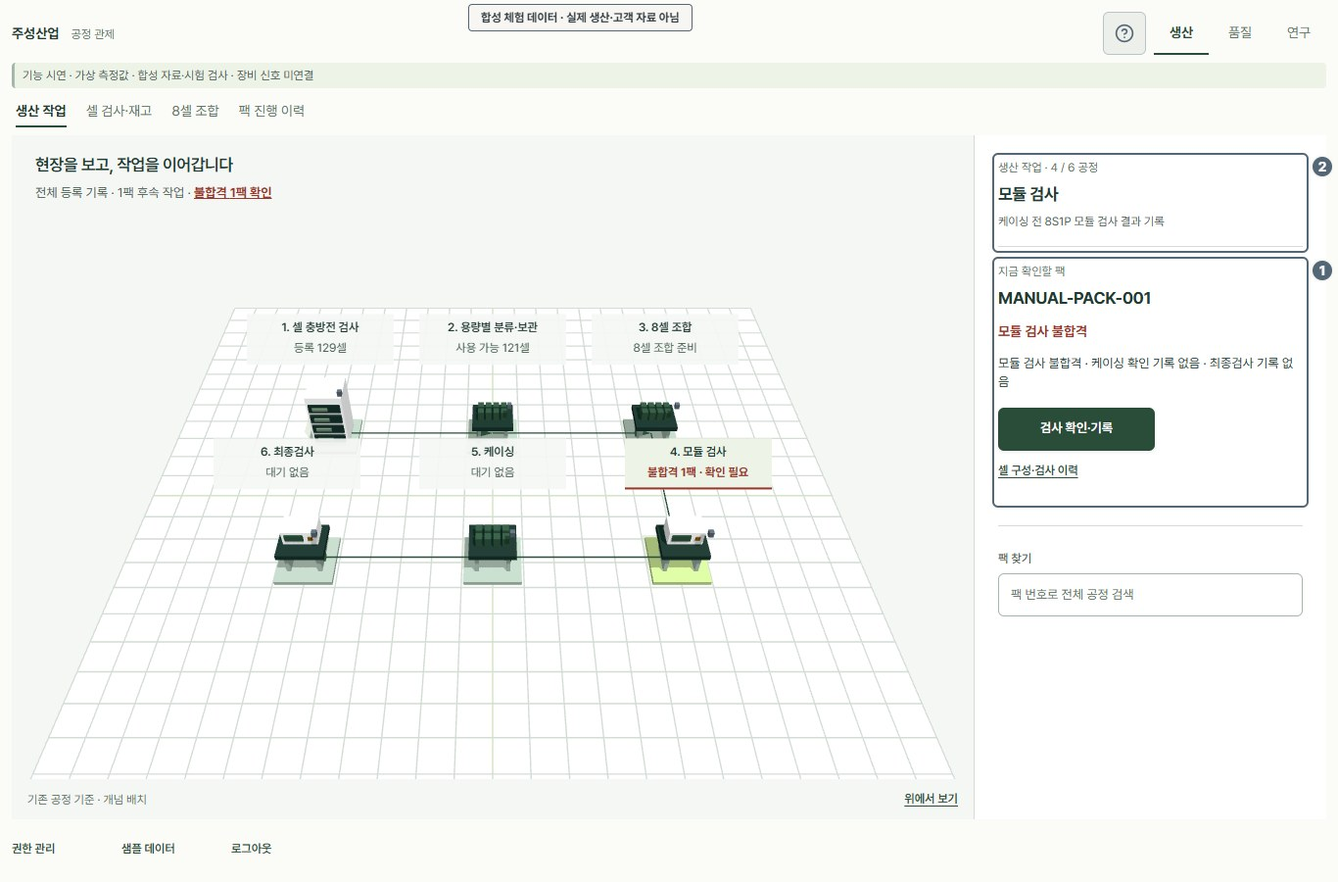
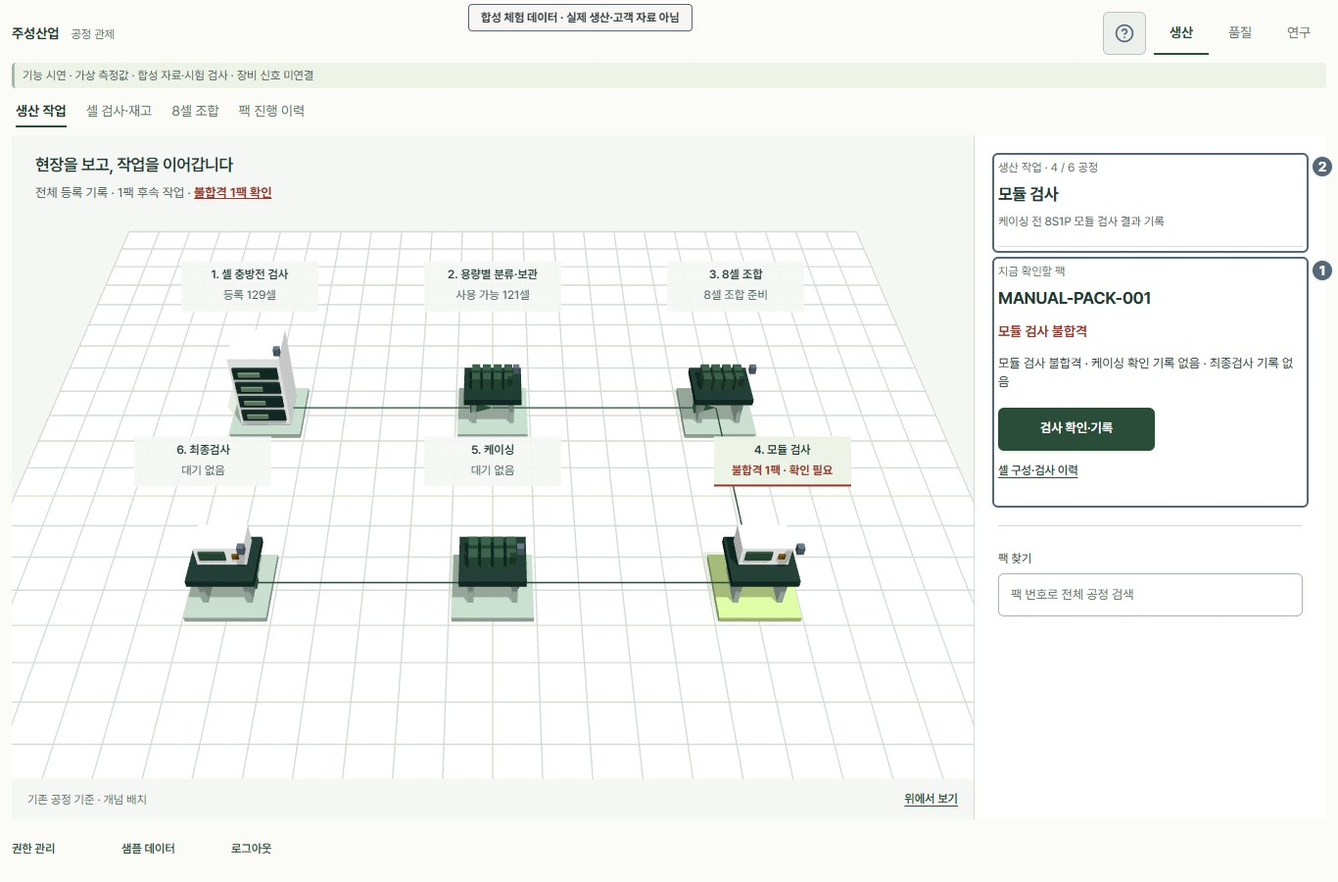
Restore scroll access across short workspaces and process controls

diff --git a/tests/vertical-access.spec.ts b/tests/vertical-access.spec.ts
@@ -1,0 +1,168 @@
+// Regression: never use scrollIntoView here: it also moves overflow:hidden ancestors.
+// Only actual scroll owners may reveal controls; clipping and hit targets are checked afterward.
+import { test, expect } from '@playwright/test';
+import { navigate, step, researchSide } from './workspace';
+import fs from 'node:fs';
+import { choose } from './chips';
+import { prepareInspection } from './inspection';
+for (const [width, height] of [[320, 360], [320, 480], [900, 360], [1366, 600], [1366, 768]])
+    test('vertical access ' + width + 'x' + height, async ({ page }, testInfo) => {
+        test.setTimeout(90000);
+        page.setDefaultTimeout(10000);
+        await page.setViewportSize({ width, height });
+        const findings: any[] = [];
+        async function audit(name: string) { const dismiss = page.getByRole('button', { name: '알림 닫기', exact: true }); if (await dismiss.isVisible())
+            await dismiss.click(); const bad = await page.evaluate(() => { const scope = document.querySelector<HTMLElement>('[aria-modal=true]') || document; const targets = [...scope.querySelectorAll<HTMLElement>('button,input:not([type=radio]):not([type=checkbox]):not([type=file]),select,textarea,summary,a,.choice-chip>span')].filter(e => { const r = e.getBoundingClientRect(), s = getComputedStyle(e); return r.width > 4 && r.height > 4 && s.visibility !== 'hidden' && s.pointerEvents !== 'none' && e.checkVisibility({ checkVisibilityCSS: true }) && !e.closest('.scene-label.quiet'); }); const failed: any[] = []; for (const e of targets) {
+            let p = e.parentElement;
+            while (p) {
+                const s = getComputedStyle(p);
+                if (/^(auto|scroll)$/.test(s.overflowY) && p.scrollHeight > p.clientHeight) {
+                    let r = e.getBoundingClientRect(), q = p.getBoundingClientRect();
+                    if (r.bottom > q.top + p.clientTop + p.clientHeight)
+                        p.scrollTo({ top: p.scrollTop + r.bottom - (q.top + p.clientTop + p.clientHeight) + 2, behavior: 'instant' });
+                    if (r.top < q.top + p.clientTop)
+                        p.scrollTo({ top: p.scrollTop - (q.top + p.clientTop - r.top + 2), behavior: 'instant' });
+                }
+                p = p.parentElement;
+            }
+            const root = document.scrollingElement as HTMLElement;
+            if (root && root.scrollHeight > innerHeight && !/^(hidden|clip)$/.test(getComputedStyle(root).overflowY)) {
+                const r = e.getBoundingClientRect();
+                if (r.bottom > innerHeight)
+                    window.scrollTo({ top: scrollY + r.bottom - innerHeight + 2, behavior: 'instant' });
+                if (r.top < 0)
+                    window.scrollTo({ top: scrollY + r.top - 2, behavior: 'instant' });
+            }
+            const r = e.getBoundingClientRect();
+            let top = Math.max(0, r.top), bottom = Math.min(innerHeight, r.bottom), clip = 'viewport';
+            p = e.parentElement;
+            while (p) {
+                const s = getComputedStyle(p), q = p.getBoundingClientRect();
+                if (/^(auto|scroll|hidden|clip)$/.test(s.overflowY)) {
+                    const b = q.top + p.clientTop + p.clientHeight;
+                    if (b < bottom || q.top + p.clientTop > top)
+                        clip = p.className;
+                    top = Math.max(top, q.top + p.clientTop);
+                    bottom = Math.min(bottom, b);
+                }
+                p = p.parentElement;
+            }
+            const ratio = Math.max(0, bottom - top) / r.height;
+            const x = Math.min(innerWidth - 1, Math.max(1, r.x + r.width / 2)), y = Math.min(innerHeight - 1, Math.max(1, (top + bottom) / 2));
+            const hit = document.elementFromPoint(x, y);
+            const hitOk = hit && (e.contains(hit) || hit.contains(e));
+            if (ratio < .94 || !hitOk)
+                failed.push({ text: (e.textContent || e.getAttribute('aria-label') || e.getAttribute('placeholder') || e.tagName).trim().slice(0, 80), ratio: Math.round(ratio * 100), clip, hit: hit?.className, rect: { y: r.y, h: r.height }, scroll: (() => { const a = []; let q = e.parentElement; while (q) {
+                        a.push({ class: q.className, overflow: getComputedStyle(q).overflowY, sh: q.scrollHeight, ch: q.clientHeight, st: q.scrollTop });
+                        q = q.parentElement;
+                    } return a; })() });
+        } return failed; }); if (bad.length) {
+            findings.push({ screen: name, bad });
+            fs.writeFileSync(testInfo.outputPath('vertical-access.json'), JSON.stringify(findings, null, 2));
+            await page.screenshot({ path: testInfo.outputPath(name.replaceAll(' ', '-') + '.png') });
+        } }
+        await page.goto('/batt/');
+        await audit('login');
+        await page.getByRole('button', { name: '사용 권한 신청', exact: true }).click();
+        await audit('가입');
+        await page.getByRole('button', { name: '가상 데이터로 공정 체험', exact: true }).click();
+        await page.getByRole('button', { name: '예시 셀로 다음 단계' }).click();
+        await page.getByRole('button', { name: '생산 홈', exact: true }).click();
+        for (const mode of ['생산', '품질', '연구']) {
+            await page.getByRole('button', { name: mode, exact: true }).click();
+            await audit(mode + '홈');
+        }
+        for (const task of ['운영 현황', '셀 데이터', '셀 매칭', '팩 · 검사이력', '품질 리포트', '알고리즘 검증', '공정 관리', '품질·공정 승인함', '사용자 관리']) {
+            await navigate(page, task);
+            if (task === '셀 매칭' && (width <= 800 || height <= 450)) {
+                const body = page.locator('.console-task-body');
+                await body.hover();
+                await page.mouse.wheel(0, 1000);
+                await expect.poll(() => body.evaluate(e => e.scrollTop)).toBeGreaterThan(0);
+            }
+            await audit(task);
+            if (task === '셀 매칭') {
+                await page.getByRole('button', { name: '조합 추천', exact: true }).click();
+                await step(page, '8셀 추천 조합');
+                await audit('조합후보');
+                await page.getByRole('button', { name: '조합 검토 · 확정', exact: true }).first().click();
+                await audit('팩구성모달');
+                await page.getByLabel('팩 일련번호').fill('VERTICAL-001');
+                await page.getByLabel('조합 검토 사유', { exact: true }).fill('합성 자료의 세로 접근성 검증');
+                await page.getByRole('button', { name: '확인 및 팩 구성', exact: true }).click();
+            }
+            if (task === '팩 · 검사이력') {
+                await page.getByRole('button', { name: '상세 조회', exact: true }).click();
+                await audit('팩상세');
+                for (const kind of ['module', 'casing', 'final']) {
+                    await prepareInspection(page);
+                    await choose(page, '검사 구분', kind);
+                    await audit('검사판정-' + kind);
+                    await prepareInspection(page, true);
+                    await audit('검사메모-' + kind);
+                    await page.getByRole('button', { name: '검사 결과 저장', exact: true }).click();
+                }
+                await page.getByRole('button', { name: '닫기', exact: true }).click();
+            }
+            if (task === '품질·공정 승인함') {
+                await step(page, '새 검토 요청');
+                await audit('품질요청');
+                await choose(page, '품질 검토 대상 팩', { label: 'VERTICAL-001' });
+                await page.getByLabel('검토 요청 사유', { exact: true }).fill('접근성 검토');
+                await page.getByRole('button', { name: '팩 품질 검토 요청', exact: true }).click();
+                await choose(page, '체험 역할', 'demo-reviewer');
+                await audit('승인근거');
+                const final = page.getByRole('button', { name: '최종 판단', exact: true });
+                if (await final.isVisible())
+                    await final.click();
+                await audit('승인판단');
+                await page.getByLabel('검토 의견').fill('근거 확인');
+                await page.getByRole('button', { name: '제출본 승인', exact: true }).click();
+                await audit('승인완료');
+                await choose(page, '체험 역할', 'demo-admin');
+            }
+            if (task === '셀 데이터') {
+                for (const s of ['셀 재고', '측정값 분포 확인']) {
+                    await step(page, s);
+                    await audit(task + '-' + s);
+                }
+            }
+            if (task === '알고리즘 검증') {
+                await researchSide(page, 'controls');
+                await page.getByRole('button', { name: '현재 측정·판정 자료 가져오기', exact: true }).click();
+                for (const s of ['1. 연구 데이터', '2. 비교 조건', '3. 검증 결과', '4. 운영 적용 검토', '최근 실험']) {
+                    await step(page, s);
+                    await audit('연구-' + s);
+                    await researchSide(page, 'controls');
+                    await audit('연구입력-' + s);
+                    if (s === '2. 비교 조건')
+                        await page.getByRole('button', { name: '알고리즘 비교 실행', exact: true }).click();
+                }
+                await step(page, '연구 문헌');
+                await audit('문헌');
+                await page.getByRole('button', { name: '직접 등록', exact: true }).click();
+                await audit('문헌등록');
+                await page.getByRole('button', { name: '취소', exact: true }).click();
+            }
+            if (task === '공정 관리') {
+                for (const s of ['확보 데이터', '저장·승인', '장비·공정']) {
+                    await page.getByRole('button', { name: s, exact: true }).click();
+                    await audit('공정-' + s);
+                }
+                await page.getByRole('button', { name: /^작업 순서 \d+$/ }).click();
+                await audit('작업순서');
+                await page.getByRole('button', {name:'장비 편집',exact:true}).click();
+                await audit('편집복귀');
+                const nameInput=page.getByLabel('장비 이름',{exact:true});
+                await nameInput.fill('하단 접근 검증 장비');
+                await page.getByRole('button',{name:'이 장비 삭제',exact:true}).click();
+                await page.getByRole('button',{name:'삭제 취소',exact:true}).click();
+                await expect(nameInput).toHaveValue('하단 접근 검증 장비');
+                await page.getByRole('button', { name: '시뮬레이션 · 작업 효율', exact: true }).click();
+                await audit('공정효율');
+            }
+        }
+        fs.writeFileSync(testInfo.outputPath('vertical-access.json'), JSON.stringify(findings, null, 2));
+        await testInfo.attach('vertical-access', { path: testInfo.outputPath('vertical-access.json'), contentType: 'application/json' });
+        expect(findings, 'All active controls must be reachable through user-scrollable ancestors').toEqual([]);
+    });

diff --git a/src/twin/TwinScene.tsx b/src/twin/TwinScene.tsx
@@ -4,7 +4,7 @@ import { OrbitControls } from 'three/addons/controls/OrbitControls.js';
 import type { Device, Layout, Simulation } from './model';
 
 export type SceneAnnotation={title:string;detail:string;tone?:'attention'|'waiting'|'quiet'};
-type Props={disabled?:boolean;annotations?:Record<string,SceneAnnotation>;layout:Layout;simulation:Simulation;selected:string;editing:boolean;running:boolean;view:'iso'|'top';onSelect:(id:string)=>void;onMove:(id:string,x:number,z:number)=>void};
+type Props={purpose?:'operation'|'design';disabled?:boolean;annotations?:Record<string,SceneAnnotation>;layout:Layout;simulation:Simulation;selected:string;editing:boolean;running:boolean;view:'iso'|'top';onSelect:(id:string)=>void;onMove:(id:string,x:number,z:number)=>void};
 type World={scene:THREE.Scene;camera:THREE.PerspectiveCamera;controls:OrbitControls;objects:THREE.Group;links:THREE.Group;renderer:THREE.WebGLRenderer};
 function dispose(root:THREE.Object3D){root.traverse(o=>{const mesh=o as THREE.Mesh;if(mesh.geometry)mesh.geometry.dispose();if(mesh.material)for(const m of Array.isArray(mesh.material)?mesh.material:[mesh.material]){const material=m as THREE.MeshStandardMaterial;material.map?.dispose();material.dispose();}});}
 export default function TwinScene(props:Props){
@@ -25,7 +25,7 @@ export default function TwinScene(props:Props){
   const grid=new THREE.GridHelper(24,24,color('--color-border-accent'),color('--color-border'));grid.position.y=-0.04;scene.add(grid);
   const objects=new THREE.Group(),links=new THREE.Group();scene.add(objects,links);world.current={scene,camera,controls,objects,links,renderer};
   let compact=element.clientWidth<600;
-  const resize=new ResizeObserver(()=>{const {width,height}=element.getBoundingClientRect();if(width&&height){renderer.setSize(width,height);camera.aspect=width/height;if(latest.current.annotations){camera.zoom=Math.min(1,camera.aspect/1.2);if(compact!==(width<600)){compact=width<600;if(latest.current.view!=='top')camera.position.set(...(compact?[0,25,10]:[0,19,18]) as [number,number,number]);}}camera.updateProjectionMatrix();}});resize.observe(element);
+  const resize=new ResizeObserver(()=>{const {width,height}=element.getBoundingClientRect();if(width&&height){renderer.setSize(width,height);camera.aspect=width/height;if(latest.current.annotations){camera.zoom=latest.current.purpose==='design'?Math.min(1,camera.aspect/1.2):camera.aspect/(latest.current.view==='top'?0.95:1.2);if(compact!==(width<600)){compact=width<600;if(latest.current.view!=='top')camera.position.set(...(compact?[0,25,10]:[0,19,18]) as [number,number,number]);}}camera.updateProjectionMatrix();}});resize.observe(element);
   const ray=new THREE.Raycaster(),pointer=new THREE.Vector2(),plane=new THREE.Plane(new THREE.Vector3(0,1,0),0);
   let drag:{id:string;startX:number;startY:number;x:number;z:number}|null=null;
   const point=(e:PointerEvent)=>{const r=element.getBoundingClientRect();pointer.set((e.clientX-r.left)/r.width*2-1,-(e.clientY-r.top)/r.height*2+1);ray.setFromCamera(pointer,camera);};
@@ -47,7 +47,7 @@ export default function TwinScene(props:Props){
     const pad=g.getObjectByName('selection-pad') as THREE.Mesh;if(pad)(pad.material as THREE.MeshStandardMaterial).color.set(color(g.userData.deviceId===selected?'--color-sidebar-accent':'--color-border-strong'));
    });
    for(const marker of links.children.filter(g=>g.userData.route)){const {from,to}=marker.userData.route;const a=latest.current.layout.devices.find(d=>d.id===from),b=latest.current.layout.devices.find(d=>d.id===to);if(!a||!b)continue;marker.visible=running&&simulation.machines[from]?.status==='running';const t=(performance.now()%2200)/2200;marker.position.set(a.x+(b.x-a.x)*t,0.42,a.z+(b.z-a.z)*t);}
-   if(latest.current.annotations){for(const d of latest.current.layout.devices){const label=element.querySelector<HTMLElement>(`[data-scene-stage="${d.id}"]`);if(label){const pos=new THREE.Vector3(d.x,3.4,d.z).project(camera);label.style.setProperty('--scene-x',`${(pos.x+1)*element.clientWidth/2}px`);label.style.setProperty('--scene-y',`${(1-pos.y)*element.clientHeight/2}px`);label.classList.toggle('is-offscreen',pos.z>1);}}}
+   if(latest.current.annotations){for(const d of latest.current.layout.devices){const label=element.querySelector<HTMLElement>(`[data-scene-stage="${d.id}"]`);if(label){const pos=new THREE.Vector3(d.x,3.4,d.z).project(camera);const inset=8,half=label.offsetWidth/2;const x=Math.max(half+inset,Math.min(element.clientWidth-half-inset,(pos.x+1)*element.clientWidth/2));const y=Math.max(label.offsetHeight+inset,Math.min(element.clientHeight-inset,(1-pos.y)*element.clientHeight/2));label.style.setProperty('--scene-x',`${x}px`);label.style.setProperty('--scene-y',`${y}px`);label.classList.toggle('is-offscreen',pos.z>1);}}}
    renderer.render(scene,camera);
   };animate();
   return()=>{cancelAnimationFrame(frame);resize.disconnect();controls.dispose();renderer.domElement.removeEventListener('pointerdown',down,true);renderer.domElement.removeEventListener('pointermove',move);renderer.domElement.removeEventListener('pointerup',up);renderer.domElement.removeEventListener('pointercancel',up);renderer.domElement.removeEventListener('webglcontextlost',lost);dispose(scene);renderer.dispose();renderer.domElement.remove();world.current=null;};
@@ -73,6 +73,6 @@ export default function TwinScene(props:Props){
   props.layout.devices.forEach(d=>w.objects.add(makeDevice(d)));
   props.layout.links.forEach(edge=>{const a=props.layout.devices.find(d=>d.id===edge.from)!,b=props.layout.devices.find(d=>d.id===edge.to)!;const from=new THREE.Vector3(a.x,0.24,a.z),to=new THREE.Vector3(b.x,0.24,b.z),dir=to.clone().sub(from);const arrow=new THREE.ArrowHelper(dir.clone().normalize(),from,dir.length(),color('--color-brand'),0.6,0.35);w.links.add(arrow);const dot=new THREE.Mesh(new THREE.BoxGeometry(0.24,0.24,0.24),new THREE.MeshStandardMaterial({color:color('--color-warning-ink')}));dot.userData.route=edge;w.links.add(dot);});
  },[props.layout,!!props.annotations]);
- useEffect(()=>{const w=world.current;if(!w)return;w.camera.position.set(...(props.view==='top'?[0,30,0.1]:props.annotations?(host.current!.clientWidth<600?[0,25,10]:[0,19,18]):[16,19,21]) as [number,number,number]);w.controls.target.set(0,0,0);w.controls.update();},[props.view]);
+ useEffect(()=>{const w=world.current;if(!w)return;w.camera.position.set(...(props.view==='top'?[0,30,0.1]:props.annotations?(host.current!.clientWidth<600?[0,25,10]:[0,19,18]):[16,19,21]) as [number,number,number]);if(props.annotations){w.camera.zoom=props.purpose==='design'?Math.min(1,w.camera.aspect/1.2):w.camera.aspect/(props.view==='top'?0.95:1.2);w.camera.updateProjectionMatrix();}w.controls.target.set(0,0,0);w.controls.update();},[props.view]);
  return <div className={`twin-viewport ${props.annotations?'operational-scene':''} ${error?'scene-fallback':''}`} ref={host}>{error&&<p className="twin-render-error" role="status">{error}</p>}{props.annotations&&<div className="scene-annotations" aria-label="3D 공정 선택">{props.layout.devices.map(d=>{const a=props.annotations![d.id];return <button type="button" disabled={props.disabled} key={d.id} data-scene-stage={d.id} aria-label={d.name} aria-pressed={props.selected===d.id} className={`scene-label ${a?.tone||'quiet'}`} onClick={()=>props.onSelect(d.id)}><strong>{a?.title||d.name}</strong><span>{a?.detail}</span></button>;})}</div>}</div>;
 }

diff --git a/tests/gap-regression.spec.ts b/tests/gap-regression.spec.ts
@@ -1,3 +1,4 @@
+import {revealScrollable} from './scroll-access';
 import {test,expect,type Page} from '@playwright/test';
 import {navigate,step} from './workspace';
 const actor='11111111-1111-4111-8111-111111111111';
@@ -30,5 +31,5 @@ test('independent reviewer reads frozen matching and retest reasons without admi
   if(path.endsWith('/quality_requests'))return route.fulfill({json:u.searchParams.get('id')?request:[request],headers:{'content-range':'0-0/1'}});
   return route.fulfill({json:[]});
  });
- await page.goto('/batt/');await navigate(page,'품질·공정 승인함');await page.getByRole('button',{name:'제출본 검토'}).click();await page.getByText('조합 판단·재검사 근거',{exact:true}).click();await expect(page.locator('.decision-focus')).toContainText('SOP 편차 확인 후 확정');await expect(page.locator('.decision-focus')).toContainText('공정 담당자');await page.getByText('구성 셀 처리 이력 1건',{exact:true}).click();await expect(page.getByText(/저항 재측정 완료/)).toBeVisible();for(const width of [1366,390,320]){await page.setViewportSize({width,height:768});expect(await page.evaluate(()=>document.documentElement.scrollWidth<=innerWidth)).toBe(true);}for(const [width,height] of [[1366,768],[390,844],[320,480]]){await page.setViewportSize({width,height});const tab=page.getByRole('button',{name:'최종 판단',exact:true});if(await tab.isVisible())await tab.click();await page.screenshot({path:`test-results/decision-${width}.png`,fullPage:true});await expect(page.getByRole('button',{name:'제출본 승인',exact:true})).toBeInViewport({ratio:1});await expect(page.locator('.approval-detail > .section-head')).toBeInViewport({ratio:1});const box=await page.locator('.approval-decision textarea').boundingBox(),action=await page.getByRole('button',{name:'제출본 승인',exact:true}).boundingBox();expect(box!.y+box!.height).toBeLessThanOrEqual(action!.y+1);}const opinion=page.locator('.approval-decision textarea');await expect(page.getByRole('button',{name:'제출본 승인',exact:true})).toBeDisabled();await opinion.fill('측정 근거를 확인했고 재검사를 요청합니다.');await page.getByRole('button',{name:'검토 근거',exact:true}).click();await page.getByRole('button',{name:'최종 판단',exact:true}).click();await expect(opinion).toHaveValue('측정 근거를 확인했고 재검사를 요청합니다.');const warning=page.locator('.approval-decision-fields .muted');await warning.scrollIntoViewIfNeeded();await expect(warning).toBeInViewport();await expect(page.getByRole('button',{name:'제출본 반려',exact:true})).toBeEnabled();await expect(page.getByRole('button',{name:'제출본 반려',exact:true})).toBeInViewport({ratio:1});await expect(page.getByRole('button',{name:'제출본 승인',exact:true})).toBeEnabled();await opinion.scrollIntoViewIfNeeded();await page.screenshot({path:'test-results/decision-context.png',fullPage:true});
+ await page.goto('/batt/');await navigate(page,'품질·공정 승인함');await page.getByRole('button',{name:'제출본 검토'}).click();await page.getByText('조합 판단·재검사 근거',{exact:true}).click();await expect(page.locator('.decision-focus')).toContainText('SOP 편차 확인 후 확정');await expect(page.locator('.decision-focus')).toContainText('공정 담당자');await page.getByText('구성 셀 처리 이력 1건',{exact:true}).click();await expect(page.getByText(/저항 재측정 완료/)).toBeVisible();for(const width of [1366,390,320]){await page.setViewportSize({width,height:768});expect(await page.evaluate(()=>document.documentElement.scrollWidth<=innerWidth)).toBe(true);}for(const [width,height] of [[1366,768],[390,844],[320,480]]){await page.setViewportSize({width,height});const tab=page.getByRole('button',{name:'최종 판단',exact:true});if(await tab.isVisible())await tab.click();await page.screenshot({path:`test-results/decision-${width}.png`,fullPage:true});if(height<=700)await revealScrollable(page.getByRole('button',{name:'제출본 승인',exact:true}));await expect(page.getByRole('button',{name:'제출본 승인',exact:true})).toBeInViewport({ratio:1});if(height<=700)await revealScrollable(page.locator('.approval-detail > .section-head'));await expect(page.locator('.approval-detail > .section-head')).toBeInViewport({ratio:1});const box=await page.locator('.approval-decision textarea').boundingBox(),action=await page.getByRole('button',{name:'제출본 승인',exact:true}).boundingBox();expect(box!.y+box!.height).toBeLessThanOrEqual(action!.y+1);}const opinion=page.locator('.approval-decision textarea');await expect(page.getByRole('button',{name:'제출본 승인',exact:true})).toBeDisabled();await opinion.fill('측정 근거를 확인했고 재검사를 요청합니다.');await page.getByRole('button',{name:'검토 근거',exact:true}).click();await page.getByRole('button',{name:'최종 판단',exact:true}).click();await expect(opinion).toHaveValue('측정 근거를 확인했고 재검사를 요청합니다.');const warning=page.locator('.approval-decision-fields .muted');await revealScrollable(warning);await expect(warning).toBeInViewport();await expect(page.getByRole('button',{name:'제출본 반려',exact:true})).toBeEnabled();await revealScrollable(page.getByRole('button',{name:'제출본 반려',exact:true}));await expect(page.getByRole('button',{name:'제출본 반려',exact:true})).toBeInViewport({ratio:1});await expect(page.getByRole('button',{name:'제출본 승인',exact:true})).toBeEnabled();await revealScrollable(opinion);await page.screenshot({path:'test-results/decision-context.png',fullPage:true});
 });

diff --git a/src/DigitalTwin.tsx b/src/DigitalTwin.tsx
@@ -25,7 +25,7 @@ export default function DigitalTwin({userId,canEdit,initialLayout,onSubmitApprov
  const result=calculation.result,coverage=dataCoverage(layout),gate=publicationError(layout);
  function commit(next:Layout){if(!canEdit)return false;try{setLayout(validateLayout(next));setRemoved(null);setMessage('설계 변경됨 · 저장하거나 새 승인 요청을 제출하세요.');return true;}catch(e){setMessage((e as Error).message);return false;}}
  function patchStation(patch:Partial<NonNullable<Layout['plan']>['stations'][string]>){if(plan&&station)commit({...layout,plan:{...plan,stations:{...plan.stations,[selected]:{...station,...patch}}}});}
- function resetInspector(reveal=true){requestAnimationFrame(()=>{inspectorRef.current?.scrollTo({top:0});if(reveal&&window.innerWidth<=800)inspectorRef.current?.scrollIntoView({block:'start'});});}
+ function resetInspector(reveal=true){requestAnimationFrame(()=>{inspectorRef.current?.scrollTo({top:0});if(reveal&&window.innerWidth<=800){const inspector=inspectorRef.current,workspace=inspector?.closest<HTMLElement>('.process-designer');if(inspector&&workspace)workspace.scrollTo({top:workspace.scrollTop+inspector.getBoundingClientRect().top-workspace.getBoundingClientRect().top});}});}
  function showEquipment(view:'edit'|'order'|'add'){setEquipmentView(view);resetInspector();}
  function selectDevice(id:string){setSelected(id);setEquipmentView('edit');if(mode==='design'&&panel==='approval')setPanel('equipment');setExpanded(false);resetInspector();}
  function add(kind:Kind){if(!plan)return;if(layout.devices.length>=30){setMessage('장비는 최대 30개입니다.');return;}for(let z=-9;z<=9;z+=3)for(let x=-9;x<=9;x+=3)if(canPlace(layout,'',x,z)){const id=`EQ-${crypto.randomUUID().slice(0,8)}`;if(!commit({...layout,devices:[...layout.devices,device(kind,id,x,z)],links:[...layout.links,...(layout.devices.length?[{from:layout.devices[layout.devices.length-1].id,to:id}]:[])],plan:{...plan,stations:{...plan.stations,[id]:defaultStation('module')}}}))return;setPanel('equipment');selectDevice(id);setMessage('장비를 작업 순서 마지막에 추가했습니다. 장비를 편집하거나 작업 순서에서 위치를 조정하세요.');return;}}
@@ -48,7 +48,7 @@ export default function DigitalTwin({userId,canEdit,initialLayout,onSubmitApprov
    </div>
 
    {surface==='scene'&&<>
-   <TwinScene layout={layout} simulation={simulation} selected={selected} annotations={annotations} editing={mode==='design'&&editing&&canEdit} running={false} view={view} onSelect={selectDevice} onMove={(id,x,z)=>{if(canPlace(layout,id,x,z))commit({...layout,devices:layout.devices.map(d=>d.id===id?{...d,x,z}:d)});}}/>
+   <TwinScene purpose="design" layout={layout} simulation={simulation} selected={selected} annotations={annotations} editing={mode==='design'&&editing&&canEdit} running={false} view={view} onSelect={selectDevice} onMove={(id,x,z)=>{if(canPlace(layout,id,x,z))commit({...layout,devices:layout.devices.map(d=>d.id===id?{...d,x,z}:d)});}}/>
    <div className="designer-caption">{mode==='design'?<button className="text-button" disabled={!canEdit} aria-pressed={editing} onClick={()=>setEditing(!editing)}>배치 이동 {editing?'켜짐':'꺼짐'}</button>:<span>강조 장비: 단위 처리능력이 가장 낮은 병목 후보</span>}<small>배치는 개념도입니다. 이동시간은 직접 입력합니다.</small></div>
    </>}
    {surface==='analysis'&&mode==='simulation'&&result&&<div className="designer-timeline" aria-label="공정 시간 비교"><h3>목표 {plan?.quantity}팩 · 단계별 시작부터 마지막 완료까지</h3>{result.rows.map(r=><button title={`${r.name} · 팩당 평균 대기 ${durationText(r.waiting)}`} key={r.id} aria-pressed={selected===r.id} onClick={()=>selectDevice(r.id)}><span>{r.name}</span><span className="timeline-track"><i style={{'--timeline-start':`${r.start/result.total*100}%`,'--timeline-width':`${(r.end-r.start)/result.total*100}%`} as CSSProperties}/></span><small>{durationText(r.end)}</small></button>)}</div>}

diff --git a/src/process-designer.css b/src/process-designer.css
@@ -35,7 +35,7 @@
   height: 56vh;
   max-height: 680px
 }
-.designer-inspector {
+.process-designer .designer-inspector {
   padding: var(--space-16);
   margin: 0;
   overflow: auto;
@@ -202,7 +202,7 @@
     flex-direction: column;
     min-height: auto
   }
-  .designer-canvas,.designer-inspector {
+  .process-designer .designer-canvas,.process-designer .designer-inspector {
     overflow: visible
   }
   .designer-canvas .twin-viewport {
@@ -213,7 +213,7 @@
     grid-template-columns: 80px minmax(0,1fr) 80px
   }
   .process-designer {
-    height: auto
+    height: 100%
   }
   .designer-header .mode-switch {
     width: 100%;
@@ -334,7 +334,7 @@
 @media(max-width:600px) {
   .designer-expanded .designer-canvas .twin-viewport {
     height: calc(100dvh - 180px);
-    min-height: 240px
+    min-height: var(--size-task-min-height)
   }
 }
 /* Each workspace view owns its information; no summary/detail jump. */
@@ -634,4 +634,15 @@
 .timeline-track i {
   margin-left: var(--timeline-start,0%);
   width: max(.3%,var(--timeline-width,0%))
+}
+
+/* Keep short desktops usable before bounded panes become smaller than their controls. */
+@media(min-width:801px) and (max-height:700px) {
+  .process-designer:not(.designer-expanded) { overflow: auto; }
+  .process-designer:not(.designer-expanded) .designer-body { flex: none; height: var(--size-designer-min-height); }
+  .process-designer .designer-editor-navigation { position: static; }
+}
+
+@media(max-width:800px) and (max-height:450px) {
+ .process-designer .designer-editor-navigation { position:static; }
 }

diff --git a/tests/scroll-access.ts b/tests/scroll-access.ts
@@ -1,0 +1,20 @@
+import { expect, type Locator } from '@playwright/test';
+
+/** Reveal through real scroll owners, without moving overflow:hidden ancestors. */
+export async function revealScrollable(target: Locator) {
+  await target.evaluate(element => {
+    for (let parent = element.parentElement; parent; parent = parent.parentElement) {
+      if (!/^(auto|scroll)$/.test(getComputedStyle(parent).overflowY)) continue;
+      const box = element.getBoundingClientRect(), frame = parent.getBoundingClientRect();
+      const top = frame.top + parent.clientTop, bottom = top + parent.clientHeight;
+      if (box.bottom > bottom) parent.scrollTop += box.bottom - bottom + 2;
+      if (element.getBoundingClientRect().top < top) parent.scrollTop -= top - element.getBoundingClientRect().top + 2;
+    }
+  });
+  await expect(target).toBeInViewport({ratio: 1});
+  expect(await target.evaluate(element => {
+    const box = element.getBoundingClientRect();
+    const hit = document.elementFromPoint(box.x + box.width / 2, box.y + box.height / 2);
+    return !!hit && (element.contains(hit) || hit.contains(element));
+  }), 'Control must receive pointer input after scrolling').toBe(true);
+}

diff --git a/src/approvals.css b/src/approvals.css
@@ -405,3 +405,19 @@
 @media(max-width:800px) and (max-height:600px) {
   .approval-decision textarea { height: var(--control-height); }
 }
+
+/* At very short heights the submission header must scroll with its evidence. */
+@media(max-height:700px), (min-width:801px) and (max-width:1100px) {
+ .console-task-body:has(.approval-detail) { overflow:auto; }
+ .approval-workspace:has(.approval-detail) { height:auto; min-height:100%; }
+ .approval-workspace:has(.approval-detail) > .task-step-body { flex:none; }
+ .approval-workspace:has(.approval-detail) .task-step-panel { height:auto; overflow:visible; }
+ .approval-detail { height:auto; overflow:visible; }
+ .approval-review-layout { flex:none; min-height:var(--size-task-min-height); }
+ .approval-review-layout > .approval-body, .approval-review-layout > .approval-decision { overflow:visible; }
+ .approval-decision-fields { flex:none; overflow:visible; }
+}
+
+@media(max-width:1100px) {
+ .approval-review-layout { grid-template-columns:minmax(0,1fr); }
+}

diff --git a/src/console.css b/src/console.css
@@ -870,3 +870,13 @@
     overflow: visible;
   }
 }
+
+/* On short viewports, fixed task introductions must not consume the entire editing area. */
+@media(max-height:700px) {
+  .console-task-body:has(> .task-steps):not(:has(.approval-detail)) { overflow: auto; }
+  .console-task-body > .task-steps:not(.approval-workspace:has(.approval-detail)) { height: auto; min-height: 100%; }
+  .console-task-body > .task-steps:not(.approval-workspace:has(.approval-detail)) > .task-step-body { flex: none; min-height: var(--size-task-min-height); }
+  .console-task-body > .task-steps:not(.approval-workspace:has(.approval-detail)) > .task-step-body > .task-step-panel { height: auto; min-height: var(--size-task-min-height); overflow: visible; }
+  .console-task-body .field-study-panel { height: auto; overflow: visible; }
+  .console-task-body .research-body.field-study-workspace { flex: none; min-height: var(--size-task-min-height); overflow: visible; }
+}

diff --git a/src/operational-twin.css b/src/operational-twin.css
@@ -455,3 +455,8 @@
 .scene-label.is-offscreen {
   visibility: hidden
 }
+
+/* Keep projected process controls readable; the scene owns its vertical overflow. */
+.floor-scene { overflow:auto; }
+.floor-scene-body { flex:1 0 var(--size-scene-min-height); min-height:var(--size-scene-min-height); }
+.floor-scene .scene-annotations .scene-label { width:min(140px,calc((100% - 80px)/3)); }

diff --git a/src/design-tokens.css b/src/design-tokens.css
@@ -1,6 +1,9 @@
 /* JSI only: shared palette, type, spacing and geometry.
    Illustration/overlay tokens retain distinct original artwork colours. */
 :root {
+  --size-task-min-height: 240px;
+  --size-designer-min-height: 360px;
+  --size-scene-min-height: 360px;
   /* Semantic colour and contextual palettes */
   --color-manual-brand: #536777;
   --color-manual-hover: #405463;
